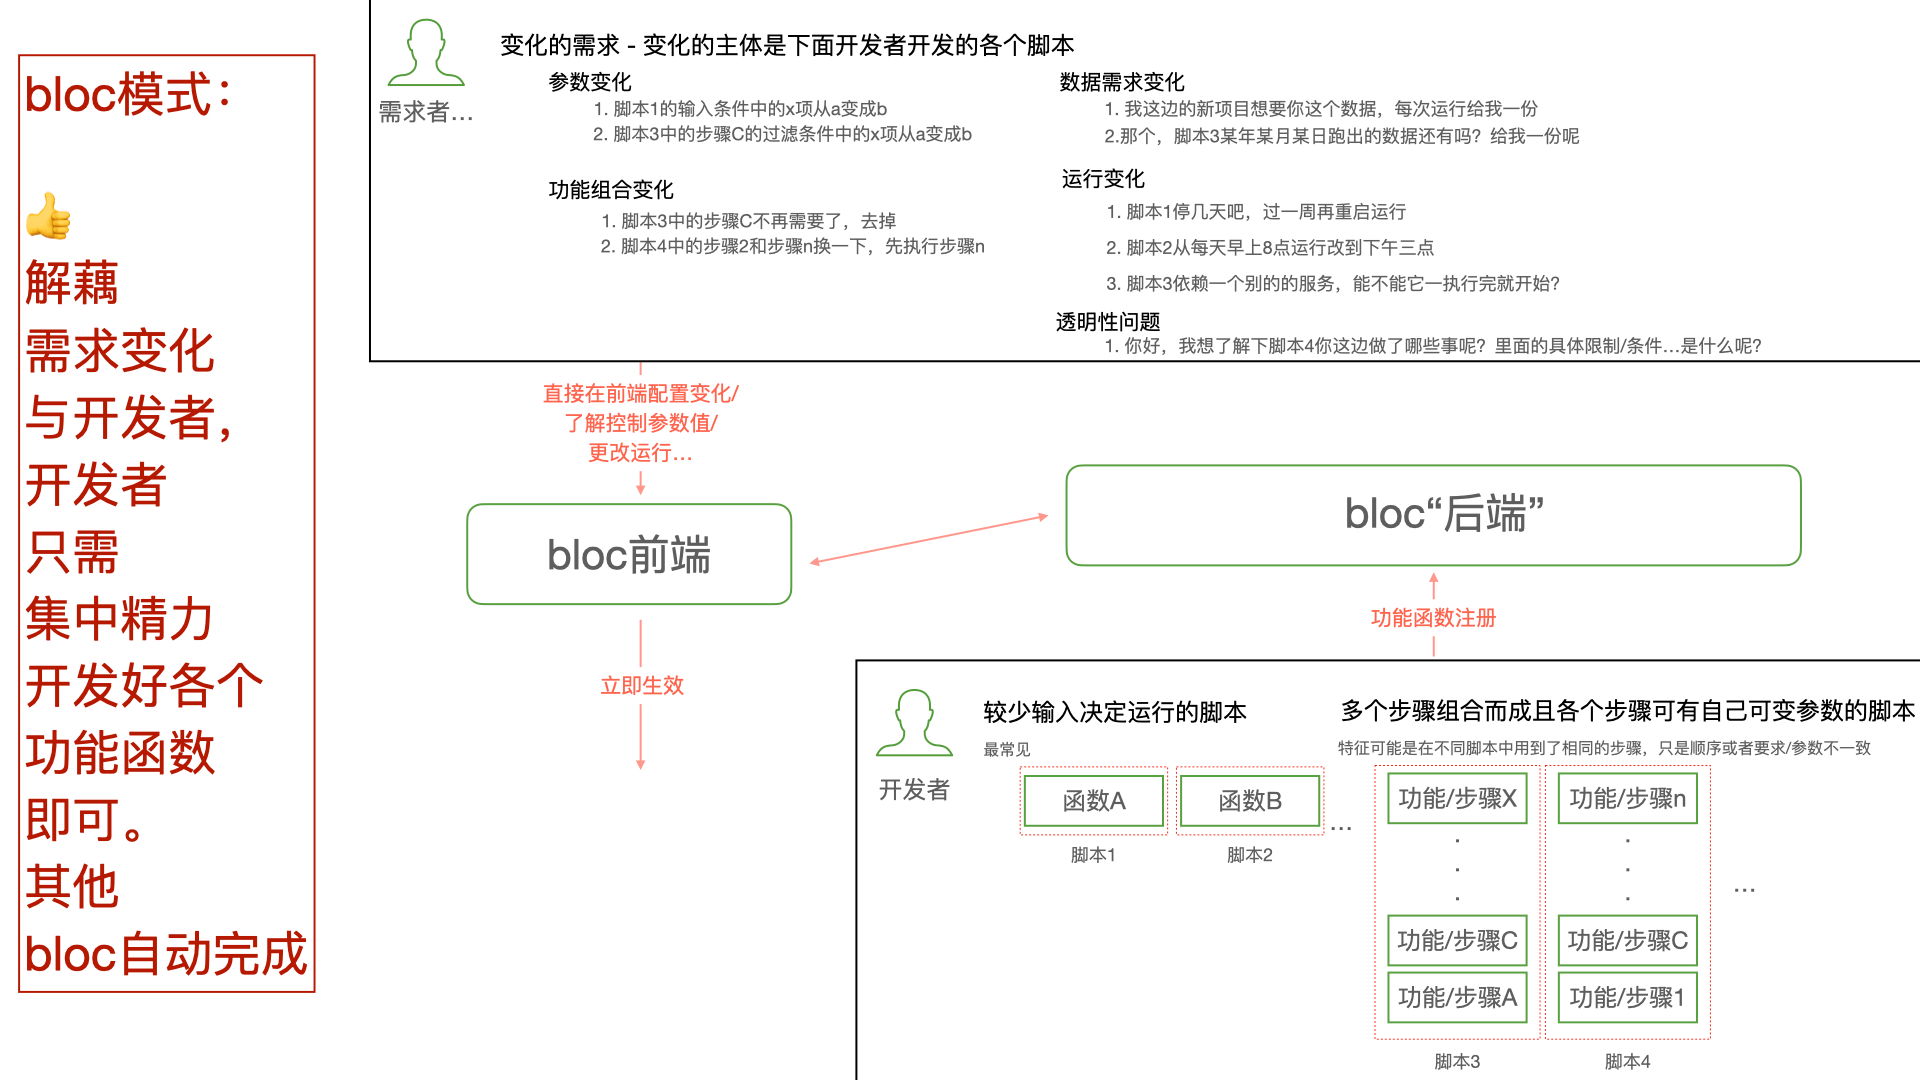
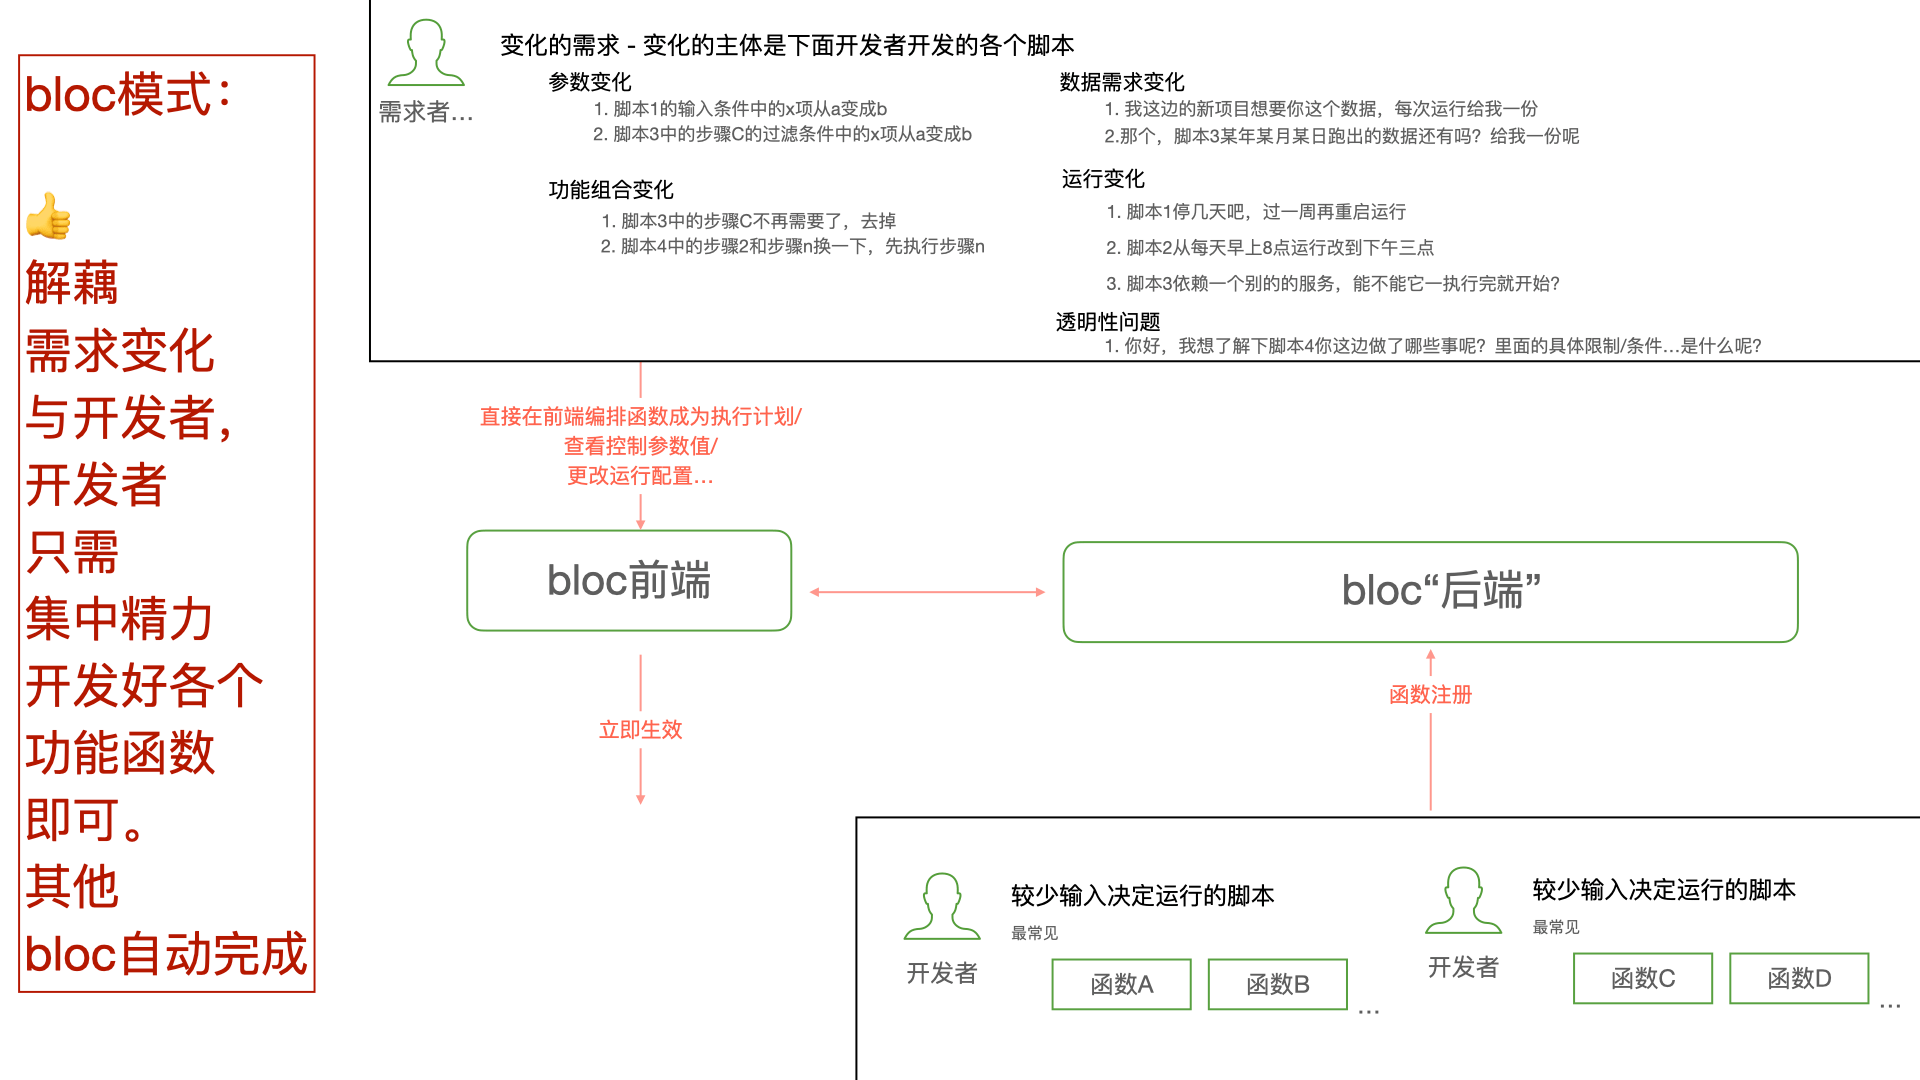
📃 docs(root README): op project's describtion & add link to devel doc

diff --git a/README.md b/README.md
@@ -5,26 +5,52 @@ Bloc 是一个致力于将程序员从需求变化中解放出来的工作流管
 
 这个目标是通过将影响后端执行的一切参数暴露出来、一切前端可操作实现的。
 
-***目前第一个版本还未上线***
+***目前还未上线***
 
 **目录**
-- [核心思想](#核心思想)
-- [一个例子说明](#一个例子说明)
+- [项目说明](#项目说明)
+	- 核心思想
+	- 特征
+	- 组件构成
+	- 示意图
+- [一个例子](#一个例子)
 - [一些feature说明](#一些feature说明)
 - [适用场景](#适用场景)
 - [开发规划](#开发规划)
 <!-- - [使用流程概述](#使用流程概述) -->
 
-## 核心思想
-在开发的过程中，我发现程序员的精力会被非常非常多的非开发需求所占据:
+## 项目说明
+### 核心思想
+我们认为，一个执行是由多个函数块串联起来的，而其中各个函数的行为，可以通过函数的参数来决定。
+
+从而出现的情况是：不同的函数块串联顺序以及不同的输入参数，就会形成一个新的执行（也就是能够满足新的需求）。
+
+所以，bloc想要做到的事就是：开发者**只需**开发好各个函数、并且尽量将影响函数运行的参数（在项目中扩展为了"富参数"、支持更为广泛）暴露出来。**剩下的就都不用管了** - 使用者自己通过bloc-前端界面来操控函数块的串联方式、其中各个函数块的参数输入、执行编排
+
+### 特征
+项目有以下特征：
+1. 支持多语言的函数（目前是go、python）
+2. 支持水平扩展运行函数块（部署的实例越多并行度就越大）
+3. 支持跨代码仓库的函数提供（跨语言、跨仓库提供的函数都可以一起在前端被编排【同一个执行编排中的函数可以是来自不同仓库、不同语言提供的函数！】）
+4. 执行时机编排同时支持周期（crontab）、Webhook触发、以及先后依赖顺序指定的方式
+
+### 组件构成
+组件构成图如下：
+
+其中蓝色部分对应[bloc代码仓库](https://github.com/fbloc)提供的一些组件。
+![component](/static/bloc_component.svg)
+
+### 示意图
+在使用bloc前的开发流程:
+
+可能从最开始为单个需求开发的简单脚本，演进到后面的庞杂交织的应用。导致事无巨细的需求变化和沟通成本，都需要通过程序员，导致耗费程序员的大量精力。
 ![before_bloc](/static/before_bloc.png)
 
-如上图，从最开始的一个单项需求的简单脚本，演进到后面的，事无巨细的需求变化和沟通成本，都需要通过程序员，导致耗费程序员的大量精力。
-
-而使用了bloc后，我们希望的就是能够最大程度的**解耦需求变化**和**降低沟通成本**。需求变化和信息最大程度的能在bloc前端进行获取和修改：
+而使用了bloc后，我们希望的就是能够最大程度的**解耦需求变化**和**降低沟通成本**。
+需求变化和信息最大程度的能在bloc前端进行获取和修改：
 ![after_bloc](/static/after_bloc.png)
 
-## 一个例子说明
+## 一个例子
 假设是一个学校
 
 假设年纪主任要找全年级平均成绩最高的几个学生来开家长会，那么会有以下的工作流：
@@ -85,3 +111,8 @@ Bloc 是一个致力于将程序员从需求变化中解放出来的工作流管
 
 ## 开发规划
 // todo
+
+## 开发者文档
+- [本地开发/测试环境搭建指南](/docs/devel/zh-CN/local-dev-enviroment.md)
+- #todo 期望开发的功能
+- #todo 生产环境搭建建议
